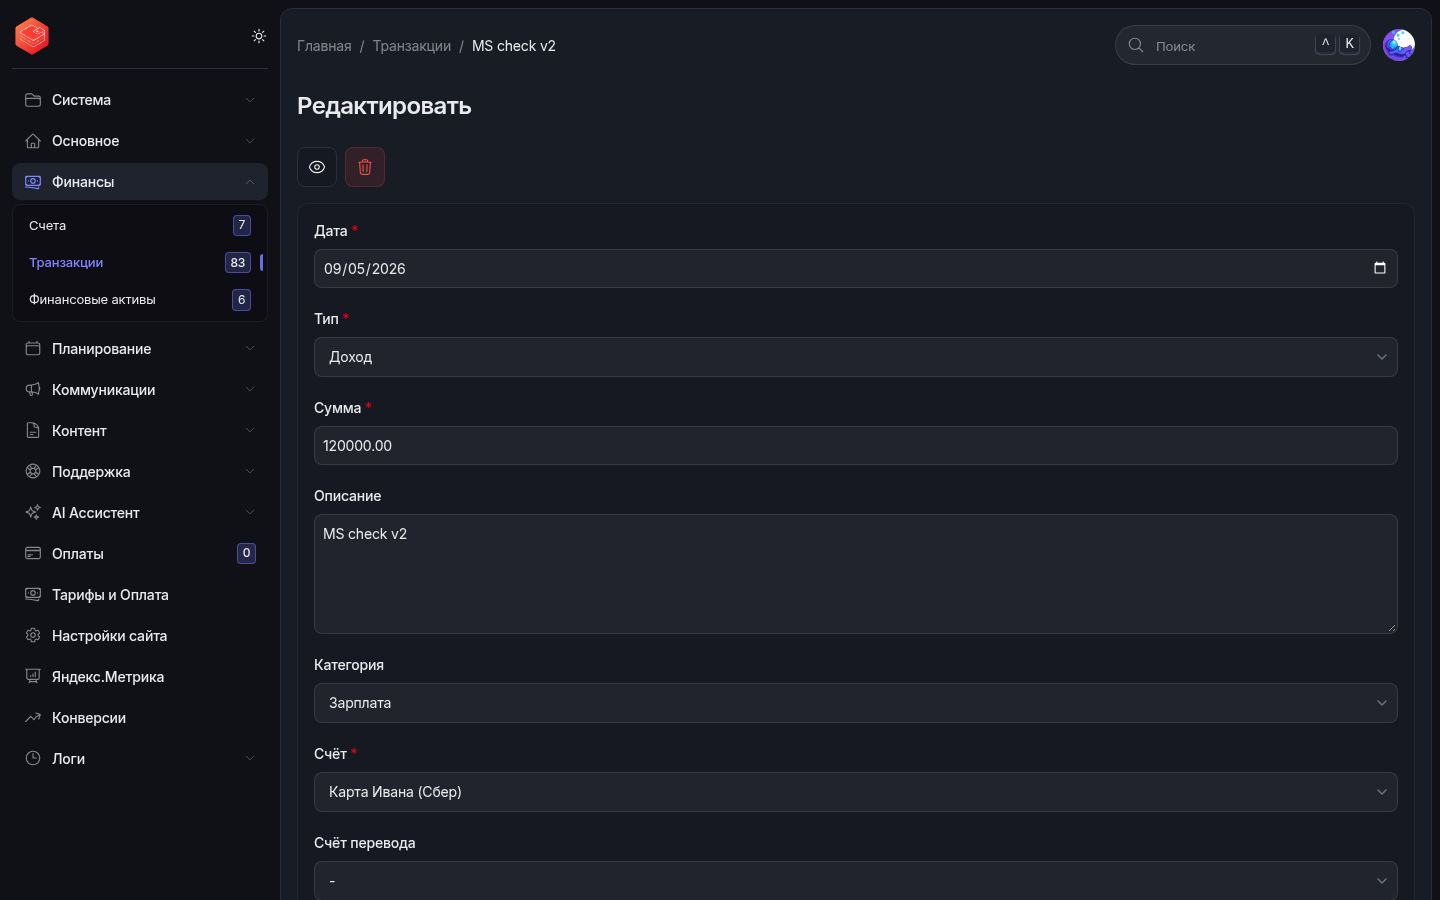
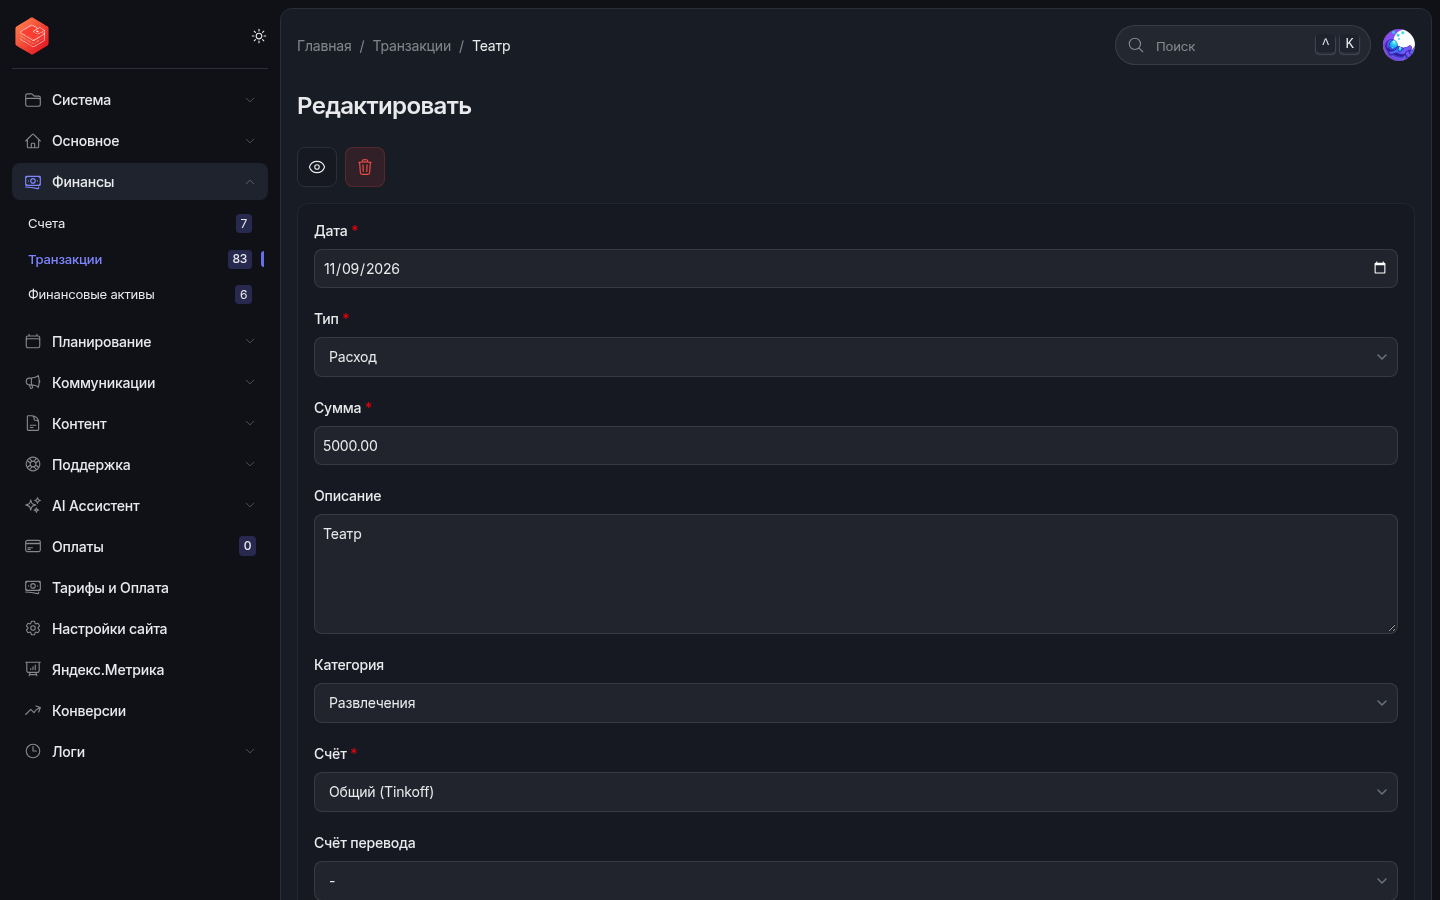
fix: align MS5 sidebar menu styles with MoonShine 4
MoonShine 5 paints .menu-submenu as a card and uses a wide active glow.
Restore the MS4 look: no submenu box, a 3px active tick, and primary-tinted
badges. Safe on MoonShine 4. Refresh check screenshots.

diff --git a/resources/css/admin-custom.css b/resources/css/admin-custom.css
@@ -168,21 +168,30 @@ h6,
     background-color: rgb(99 102 241 / 8%) !important;
 }
 
+/* MS4 had a thin active tick, not the wide MS5 glow bar. */
+.menu-item._is-active > .menu-link::after,
 .menu-item._is-active .menu-link::after {
     width: 3px !important;
+    height: 50% !important;
     border-radius: 3px 0 0 3px !important;
     box-shadow: none !important;
     opacity: 0.8;
 }
 
+/*
+ * MS5 paints .menu-submenu as a card (border + background).
+ * On MS4 the group was just indented items, so remove the box.
+ */
 .menu-submenu {
-    border-color: rgb(255 255 255 / 6%) !important;
-    background-color: rgb(0 0 0 / 15%) !important;
+    border: 0 !important;
+    background: transparent !important;
 }
 
-:root:not(.dark) .menu-submenu {
-    border-color: rgb(0 0 0 / 6%) !important;
-    background-color: rgb(0 0 0 / 2%) !important;
+.layout-menu .menu-link .menu-badge,
+.layout-menu .menu-button .menu-badge {
+    border: 0 !important;
+    background-color: color-mix(in oklab, var(--color-primary) 22%, transparent) !important;
+    color: var(--color-base-text) !important;
 }
 
 .menu-submenu .menu-link,

diff --git a/docs/moonshine-5-release.md b/docs/moonshine-5-release.md
@@ -1,0 +1,25 @@
+# MoonShine 5: релиз v1.1.0
+
+## Резюме
+
+Поддержка MoonShine 5 при сохранении совместимости с MoonShine 4.4+. `composer.json`: `^4.4 || ^5.0`. PHP-код layout/palette менять не пришлось.
+
+На MS5 ядро рисует `.menu-submenu` карточкой (border + background) и широкий glow у активного пункта; на эталоне MS4 подменю было без коробки, активный пункт — тонкая полоска ~3px, бейджи в цвете primary. В `resources/css/admin-custom.css` это выровнено: submenu без рамки, tick 3px, бейджи `color-mix` от `--color-primary`. Правка безопасна и на MS4 (эталон и так без коробки).
+
+CI в репозитории нет. Локально `php -l` по `src/` и `config/` — чисто.
+
+Браузерный прогон ветки `feature/moonshine-5` на MoonShine 4.19.5 и 5.x-dev: формы, списки, сайдбар, дашборд, светлая/тёмная/мобильная — визуально совпадает с эталоном MS4.
+
+## Скриншоты
+
+Актуальные кадры в `docs/moonshine-5-check/`.
+
+## План релиза
+
+1. Влить PR в `main` (squash, линейная история репо).
+2. Выпустить GitHub Release `v1.1.0` (предыдущий — `v1.0.0`).
+
+## Коммиты
+
+- `cd455f8` — feat: support MoonShine 5
+- (этот коммит) — CSS меню как на MS4, актуальные скриншоты
